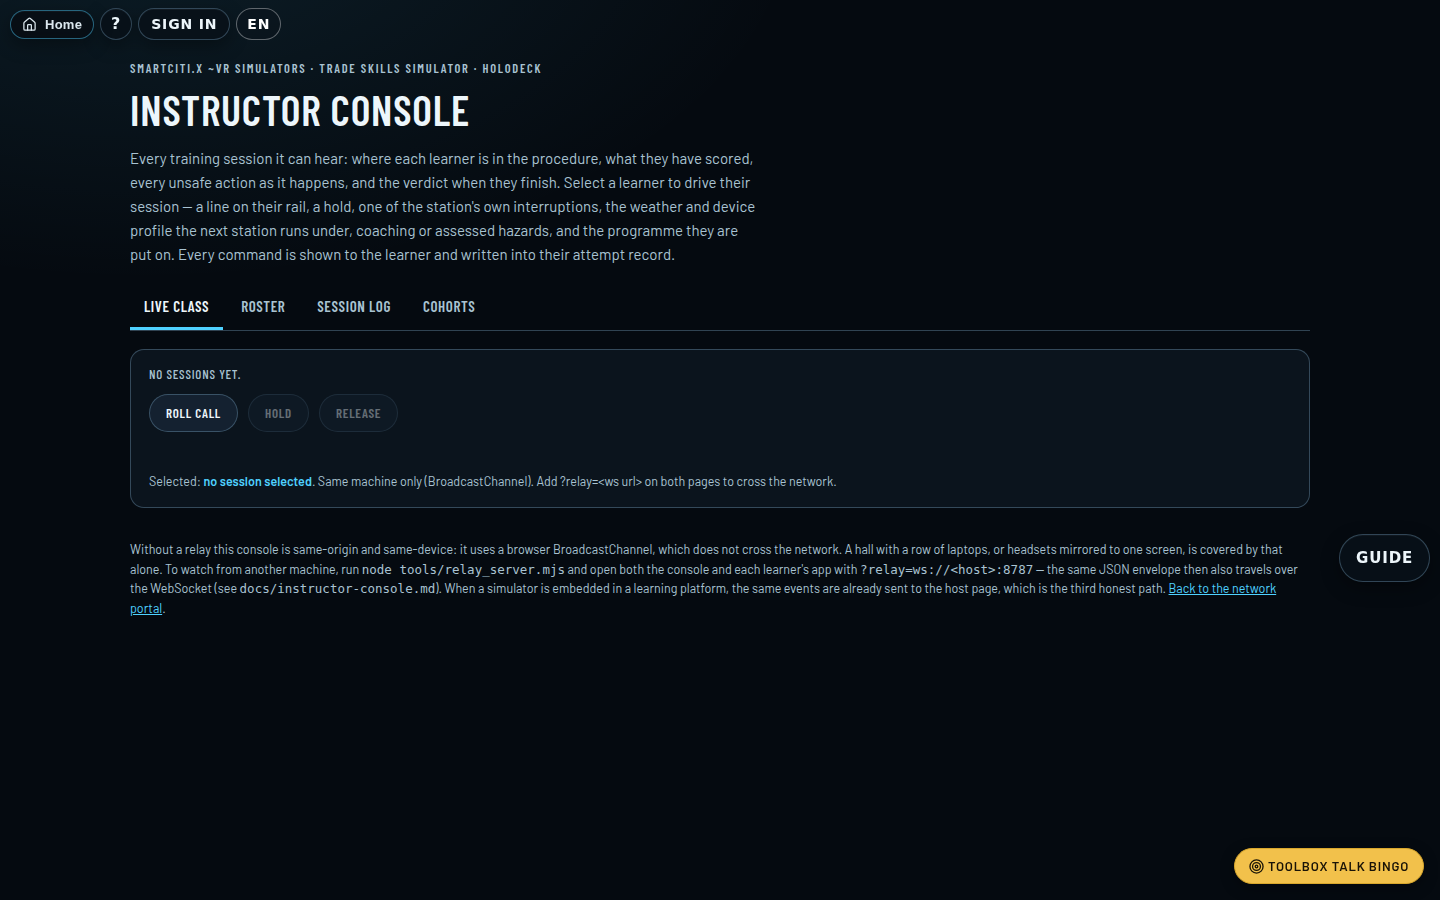
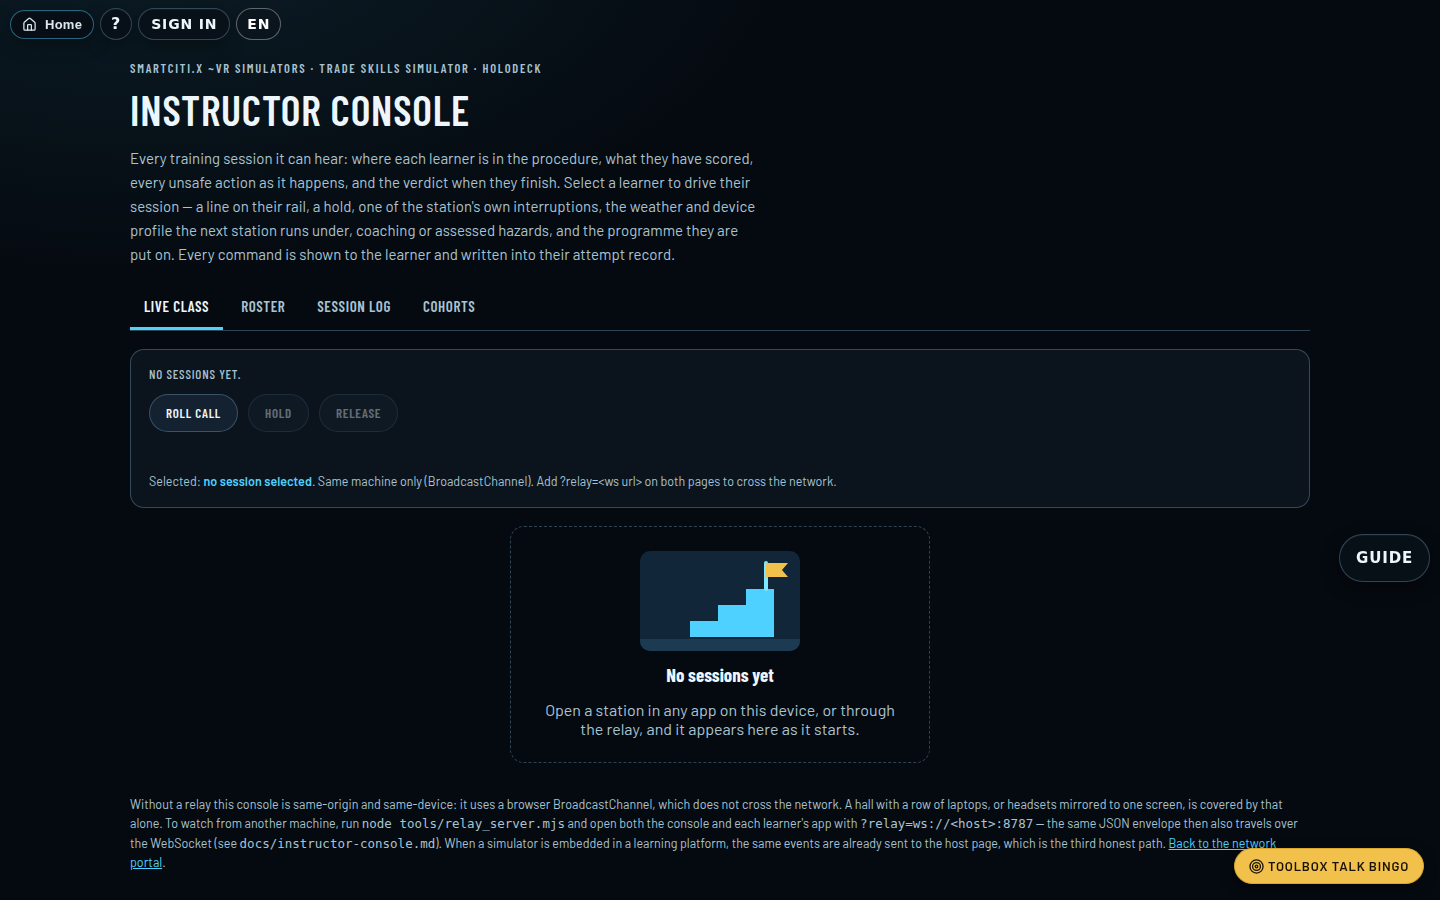
ATELIER-2 (rescued snapshot, reviewed by RESCUE): the instructor console's Live, Roster and Log views show the design system's empty state when they have nothing to list; the instructor after-captures re-taken
(cherry picked from commit 1b4bed9fb59d720d0f18779e4efea05f3b0d204b)

Claude-Session: https://claude.ai/code/session_015ZZX8oPoF3cQNKzUtpVYAb

Changed region(s): [[0.0938, 0.5911, 0.9062, 0.84], [0.0938, 0.8711, 0.9062, 0.9644]]

diff --git a/WebXR/dist/instructor-console.html b/WebXR/dist/instructor-console.html
@@ -126,6 +126,8 @@
   th{font-family:var(--cond);letter-spacing:.07em;text-transform:uppercase;font-size:11px;color:var(--muted)}
   td.dir-sent{color:var(--accent)} td.dir-recv{color:var(--muted)}
   #log-wrap{max-height:520px;overflow:auto}
+  .at-empty{margin:18px auto}
+  .at-empty .at-illo{max-width:160px}
   [hidden]{display:none !important}
 </style>
 </head>
@@ -238,6 +240,7 @@
       </div>
     </section>
 
+    <div class="at-empty" id="live-empty" hidden><svg class="at-illo at-illo--pathway" viewBox="0 0 160 100" preserveAspectRatio="xMidYMid slice" aria-hidden="true" focusable="false"><rect class="at-il-sky" width="160" height="100" rx="10"/><path class="at-il-ground" d="M0 88h160v2a10 10 0 0 1-10 10H10A10 10 0 0 1 0 90z"/><path class="at-il-fill" d="M22 86h28V70h28V54h28V38h28v48z"/><path class="at-il-line" d="M126 38V12"/><path class="at-il-warm" d="M126 12h22l-6 7 6 7h-22z"/></svg><p class="at-empty__title">No sessions yet</p><p>Open a station in any app on this device, or through the relay, and it appears here as it starts.</p></div>
     <div id="list"></div>
   </section>
 
@@ -250,6 +253,7 @@
       <p class="fine" id="roster-count">Loading the catalog…</p>
       <p class="fine">“Send selected” goes to the learner selected on the Live class view; “Send all live” goes to every live session. Both are the same open command the learner's app answers, so the class lands in the station the same way a deep link would.</p>
     </section>
+    <div class="at-empty" id="roster-empty" hidden><svg class="at-illo at-illo--safety" viewBox="0 0 160 100" preserveAspectRatio="xMidYMid slice" aria-hidden="true" focusable="false"><rect class="at-il-sky" width="160" height="100" rx="10"/><path class="at-il-ground" d="M0 88h160v2a10 10 0 0 1-10 10H10A10 10 0 0 1 0 90z"/><path class="at-il-warm" d="M40 70c0-24 16-40 40-40s40 16 40 40z"/><rect class="at-il-fill" x="30" y="68" width="100" height="10" rx="4"/><path class="at-il-line" d="M80 30v16M68 34l4 14M92 34l-4 14"/></svg><p class="at-empty__title">Nothing in the catalog matches</p><p>Clear the search to see every station and programme again.</p></div>
     <div id="roster-programmes"></div>
     <div id="roster-tree"></div>
   </section>
@@ -272,6 +276,7 @@
           <thead><tr><th>Time</th><th>Dir</th><th>Kind</th><th>Learner</th><th>Station</th><th>Detail</th></tr></thead>
           <tbody id="log-rows"></tbody>
         </table>
+        <div class="at-empty" id="log-empty" hidden><svg class="at-illo at-illo--logistics" viewBox="0 0 160 100" preserveAspectRatio="xMidYMid slice" aria-hidden="true" focusable="false"><rect class="at-il-sky" width="160" height="100" rx="10"/><path class="at-il-ground" d="M0 88h160v2a10 10 0 0 1-10 10H10A10 10 0 0 1 0 90z"/><rect class="at-il-warm" x="30" y="56" width="30" height="26" rx="2"/><rect class="at-il-fill" x="62" y="56" width="30" height="26" rx="2"/><rect class="at-il-accent" x="46" y="30" width="30" height="26" rx="2"/><path class="at-il-line" d="M26 86h70M104 50h28M124 42l8 8-8 8"/></svg><p class="at-empty__title">Nothing logged yet</p><p>Every command this console sends and every event it hears will be listed here, newest first.</p></div>
       </div>
     </section>
   </section>
@@ -23762,6 +23767,8 @@ function renderClass() {
     : `${rows.length} session${rows.length === 1 ? "" : "s"} · ${live} live`;
   const list = $("list");
   list.replaceChildren();
+  const liveEmpty = $("live-empty");
+  if (liveEmpty) liveEmpty.hidden = rows.length !== 0 || !bus.available;
   if (selected && !roster.has(selected)) selected = null;
 
   for (const r of rows) {
@@ -24014,6 +24021,8 @@ function renderRoster() {
   const programmes = catalog.programmes.filter((p) => matchProgramme(p, query));
   count.textContent = `${stations.length} of ${catalog.total} stations · ${programmes.length} of ${catalog.programmes.length} programmes`
     + (query ? ` matching “${query}”` : "") + ` · ${liveRows().length} live session(s)`;
+  const rosterEmpty = $("roster-empty");
+  if (rosterEmpty) rosterEmpty.hidden = stations.length + programmes.length !== 0;
 
   const progWrap = $("roster-programmes");
   progWrap.replaceChildren();
@@ -24084,6 +24093,8 @@ function renderLog() {
     + (hidden ? ` · ${hidden} position snapshot${hidden === 1 ? "" : "s"} folded away` : "");
   const body = $("log-rows");
   body.replaceChildren();
+  const logEmpty = $("log-empty");
+  if (logEmpty) logEmpty.hidden = rows.length !== 0;
   for (const r of [...rows].reverse()) {
     const tr = el("tr");
     tr.append(el("td", null, new Date(r.at).toLocaleTimeString()));

diff --git a/WebXR/instructor/dist/instructor-console.html b/WebXR/instructor/dist/instructor-console.html
@@ -126,6 +126,8 @@
   th{font-family:var(--cond);letter-spacing:.07em;text-transform:uppercase;font-size:11px;color:var(--muted)}
   td.dir-sent{color:var(--accent)} td.dir-recv{color:var(--muted)}
   #log-wrap{max-height:520px;overflow:auto}
+  .at-empty{margin:18px auto}
+  .at-empty .at-illo{max-width:160px}
   [hidden]{display:none !important}
 </style>
 </head>
@@ -238,6 +240,7 @@
       </div>
     </section>
 
+    <div class="at-empty" id="live-empty" hidden><svg class="at-illo at-illo--pathway" viewBox="0 0 160 100" preserveAspectRatio="xMidYMid slice" aria-hidden="true" focusable="false"><rect class="at-il-sky" width="160" height="100" rx="10"/><path class="at-il-ground" d="M0 88h160v2a10 10 0 0 1-10 10H10A10 10 0 0 1 0 90z"/><path class="at-il-fill" d="M22 86h28V70h28V54h28V38h28v48z"/><path class="at-il-line" d="M126 38V12"/><path class="at-il-warm" d="M126 12h22l-6 7 6 7h-22z"/></svg><p class="at-empty__title">No sessions yet</p><p>Open a station in any app on this device, or through the relay, and it appears here as it starts.</p></div>
     <div id="list"></div>
   </section>
 
@@ -250,6 +253,7 @@
       <p class="fine" id="roster-count">Loading the catalog…</p>
       <p class="fine">“Send selected” goes to the learner selected on the Live class view; “Send all live” goes to every live session. Both are the same open command the learner's app answers, so the class lands in the station the same way a deep link would.</p>
     </section>
+    <div class="at-empty" id="roster-empty" hidden><svg class="at-illo at-illo--safety" viewBox="0 0 160 100" preserveAspectRatio="xMidYMid slice" aria-hidden="true" focusable="false"><rect class="at-il-sky" width="160" height="100" rx="10"/><path class="at-il-ground" d="M0 88h160v2a10 10 0 0 1-10 10H10A10 10 0 0 1 0 90z"/><path class="at-il-warm" d="M40 70c0-24 16-40 40-40s40 16 40 40z"/><rect class="at-il-fill" x="30" y="68" width="100" height="10" rx="4"/><path class="at-il-line" d="M80 30v16M68 34l4 14M92 34l-4 14"/></svg><p class="at-empty__title">Nothing in the catalog matches</p><p>Clear the search to see every station and programme again.</p></div>
     <div id="roster-programmes"></div>
     <div id="roster-tree"></div>
   </section>
@@ -272,6 +276,7 @@
           <thead><tr><th>Time</th><th>Dir</th><th>Kind</th><th>Learner</th><th>Station</th><th>Detail</th></tr></thead>
           <tbody id="log-rows"></tbody>
         </table>
+        <div class="at-empty" id="log-empty" hidden><svg class="at-illo at-illo--logistics" viewBox="0 0 160 100" preserveAspectRatio="xMidYMid slice" aria-hidden="true" focusable="false"><rect class="at-il-sky" width="160" height="100" rx="10"/><path class="at-il-ground" d="M0 88h160v2a10 10 0 0 1-10 10H10A10 10 0 0 1 0 90z"/><rect class="at-il-warm" x="30" y="56" width="30" height="26" rx="2"/><rect class="at-il-fill" x="62" y="56" width="30" height="26" rx="2"/><rect class="at-il-accent" x="46" y="30" width="30" height="26" rx="2"/><path class="at-il-line" d="M26 86h70M104 50h28M124 42l8 8-8 8"/></svg><p class="at-empty__title">Nothing logged yet</p><p>Every command this console sends and every event it hears will be listed here, newest first.</p></div>
       </div>
     </section>
   </section>
@@ -23762,6 +23767,8 @@ function renderClass() {
     : `${rows.length} session${rows.length === 1 ? "" : "s"} · ${live} live`;
   const list = $("list");
   list.replaceChildren();
+  const liveEmpty = $("live-empty");
+  if (liveEmpty) liveEmpty.hidden = rows.length !== 0 || !bus.available;
   if (selected && !roster.has(selected)) selected = null;
 
   for (const r of rows) {
@@ -24014,6 +24021,8 @@ function renderRoster() {
   const programmes = catalog.programmes.filter((p) => matchProgramme(p, query));
   count.textContent = `${stations.length} of ${catalog.total} stations · ${programmes.length} of ${catalog.programmes.length} programmes`
     + (query ? ` matching “${query}”` : "") + ` · ${liveRows().length} live session(s)`;
+  const rosterEmpty = $("roster-empty");
+  if (rosterEmpty) rosterEmpty.hidden = stations.length + programmes.length !== 0;
 
   const progWrap = $("roster-programmes");
   progWrap.replaceChildren();
@@ -24084,6 +24093,8 @@ function renderLog() {
     + (hidden ? ` · ${hidden} position snapshot${hidden === 1 ? "" : "s"} folded away` : "");
   const body = $("log-rows");
   body.replaceChildren();
+  const logEmpty = $("log-empty");
+  if (logEmpty) logEmpty.hidden = rows.length !== 0;
   for (const r of [...rows].reverse()) {
     const tr = el("tr");
     tr.append(el("td", null, new Date(r.at).toLocaleTimeString()));

diff --git a/WebXR/instructor/index.html b/WebXR/instructor/index.html
@@ -133,6 +133,8 @@
   th{font-family:var(--cond);letter-spacing:.07em;text-transform:uppercase;font-size:11px;color:var(--muted)}
   td.dir-sent{color:var(--accent)} td.dir-recv{color:var(--muted)}
   #log-wrap{max-height:520px;overflow:auto}
+  .at-empty{margin:18px auto}
+  .at-empty .at-illo{max-width:160px}
   [hidden]{display:none !important}
 </style>
 </head>
@@ -243,6 +245,7 @@
       </div>
     </section>
 
+    <div class="at-empty" id="live-empty" hidden><svg class="at-illo at-illo--pathway" viewBox="0 0 160 100" preserveAspectRatio="xMidYMid slice" aria-hidden="true" focusable="false"><rect class="at-il-sky" width="160" height="100" rx="10"/><path class="at-il-ground" d="M0 88h160v2a10 10 0 0 1-10 10H10A10 10 0 0 1 0 90z"/><path class="at-il-fill" d="M22 86h28V70h28V54h28V38h28v48z"/><path class="at-il-line" d="M126 38V12"/><path class="at-il-warm" d="M126 12h22l-6 7 6 7h-22z"/></svg><p class="at-empty__title">No sessions yet</p><p>Open a station in any app on this device, or through the relay, and it appears here as it starts.</p></div>
     <div id="list"></div>
   </section>
 
@@ -255,6 +258,7 @@
       <p class="fine" id="roster-count">Loading the catalog…</p>
       <p class="fine">“Send selected” goes to the learner selected on the Live class view; “Send all live” goes to every live session. Both are the same open command the learner's app answers, so the class lands in the station the same way a deep link would.</p>
     </section>
+    <div class="at-empty" id="roster-empty" hidden><svg class="at-illo at-illo--safety" viewBox="0 0 160 100" preserveAspectRatio="xMidYMid slice" aria-hidden="true" focusable="false"><rect class="at-il-sky" width="160" height="100" rx="10"/><path class="at-il-ground" d="M0 88h160v2a10 10 0 0 1-10 10H10A10 10 0 0 1 0 90z"/><path class="at-il-warm" d="M40 70c0-24 16-40 40-40s40 16 40 40z"/><rect class="at-il-fill" x="30" y="68" width="100" height="10" rx="4"/><path class="at-il-line" d="M80 30v16M68 34l4 14M92 34l-4 14"/></svg><p class="at-empty__title">Nothing in the catalog matches</p><p>Clear the search to see every station and programme again.</p></div>
     <div id="roster-programmes"></div>
     <div id="roster-tree"></div>
   </section>
@@ -277,6 +281,7 @@
           <thead><tr><th>Time</th><th>Dir</th><th>Kind</th><th>Learner</th><th>Station</th><th>Detail</th></tr></thead>
           <tbody id="log-rows"></tbody>
         </table>
+        <div class="at-empty" id="log-empty" hidden><svg class="at-illo at-illo--logistics" viewBox="0 0 160 100" preserveAspectRatio="xMidYMid slice" aria-hidden="true" focusable="false"><rect class="at-il-sky" width="160" height="100" rx="10"/><path class="at-il-ground" d="M0 88h160v2a10 10 0 0 1-10 10H10A10 10 0 0 1 0 90z"/><rect class="at-il-warm" x="30" y="56" width="30" height="26" rx="2"/><rect class="at-il-fill" x="62" y="56" width="30" height="26" rx="2"/><rect class="at-il-accent" x="46" y="30" width="30" height="26" rx="2"/><path class="at-il-line" d="M26 86h70M104 50h28M124 42l8 8-8 8"/></svg><p class="at-empty__title">Nothing logged yet</p><p>Every command this console sends and every event it hears will be listed here, newest first.</p></div>
       </div>
     </section>
   </section>

diff --git a/WebXR/instructor/js/app.js b/WebXR/instructor/js/app.js
@@ -137,6 +137,8 @@ function renderClass() {
     : `${rows.length} session${rows.length === 1 ? "" : "s"} · ${live} live`;
   const list = $("list");
   list.replaceChildren();
+  const liveEmpty = $("live-empty");
+  if (liveEmpty) liveEmpty.hidden = rows.length !== 0 || !bus.available;
   if (selected && !roster.has(selected)) selected = null;
 
   for (const r of rows) {
@@ -389,6 +391,8 @@ function renderRoster() {
   const programmes = catalog.programmes.filter((p) => matchProgramme(p, query));
   count.textContent = `${stations.length} of ${catalog.total} stations · ${programmes.length} of ${catalog.programmes.length} programmes`
     + (query ? ` matching “${query}”` : "") + ` · ${liveRows().length} live session(s)`;
+  const rosterEmpty = $("roster-empty");
+  if (rosterEmpty) rosterEmpty.hidden = stations.length + programmes.length !== 0;
 
   const progWrap = $("roster-programmes");
   progWrap.replaceChildren();
@@ -459,6 +463,8 @@ function renderLog() {
     + (hidden ? ` · ${hidden} position snapshot${hidden === 1 ? "" : "s"} folded away` : "");
   const body = $("log-rows");
   body.replaceChildren();
+  const logEmpty = $("log-empty");
+  if (logEmpty) logEmpty.hidden = rows.length !== 0;
   for (const r of [...rows].reverse()) {
     const tr = el("tr");
     tr.append(el("td", null, new Date(r.at).toLocaleTimeString()));
